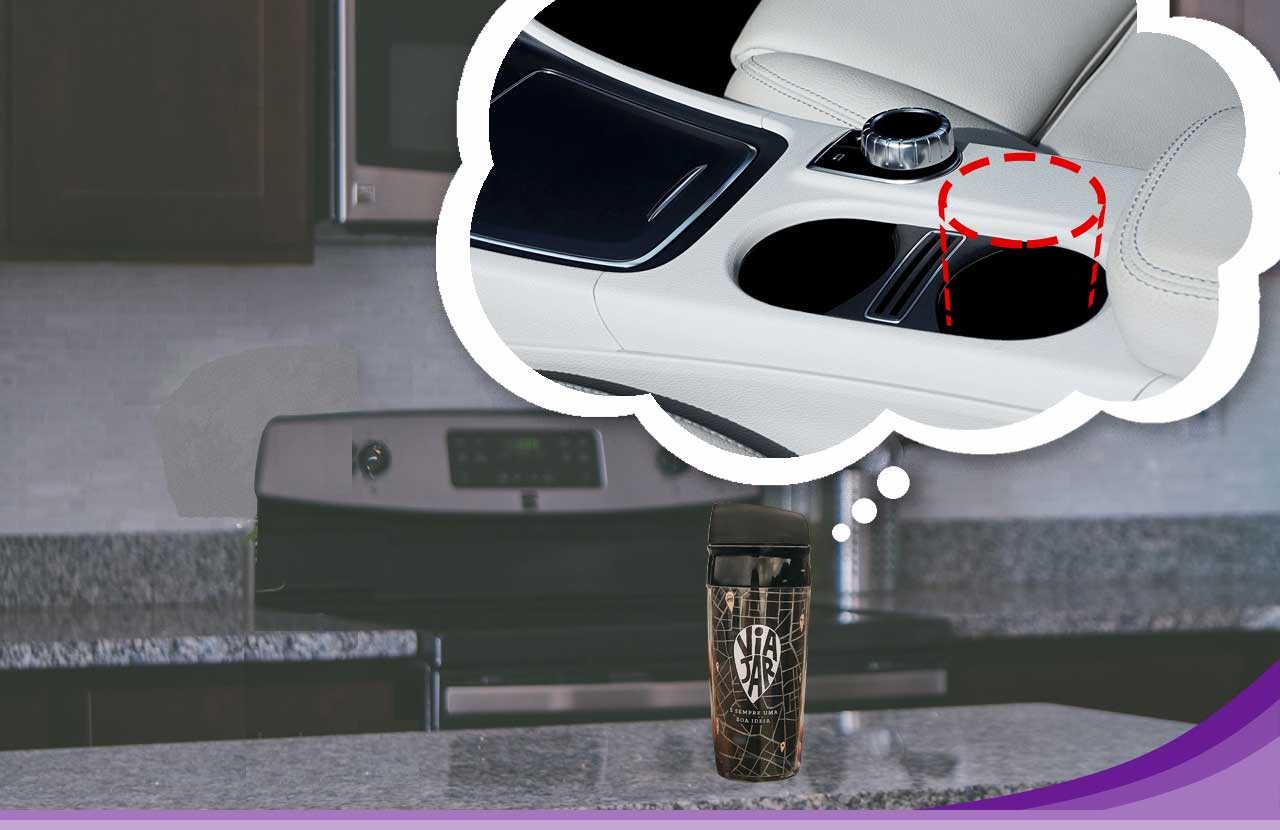
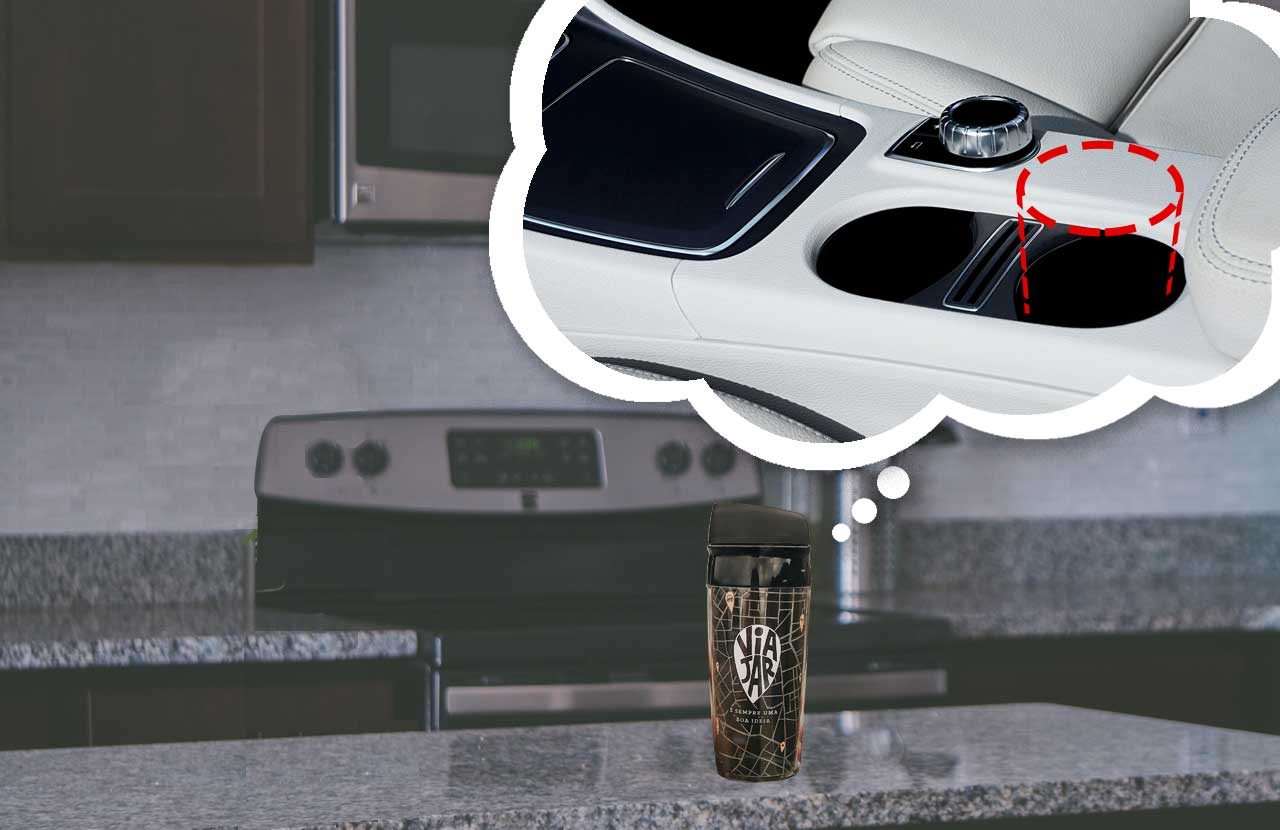
Swapped out hero creative to cup campaign from mask

Changed region(s): [[0.3125, 0.0, 1.0, 0.6024], [0.0, 0.7831, 1.0, 1.0], [0.2188, 0.512, 0.2812, 0.5723]]

diff --git a/src/site/index.md b/src/site/index.md
@@ -3,10 +3,9 @@ title: atendit
 subtitle: A Bluetooth and iOS App powered event driven conditional reminder, notification, and alert system.
 himgpath: ../../images/hero-images/
 layout: layouts/home.njk
-head: Have your mask?
-subhead: We'll make sure you never leave home without it.
-himgfilename: hero-image-mask.jpg
-checkfilename: tweeter.svg
+head: Avoid forgetting your stuff
+subhead: We'll make sure you never leave home without what you need
+himgfilename: hero-desk-cup.jpg
 ctalink: https://www.amazon.com/dp/B089NB883H
 comparisonsign: How is atendit different?
 comparisontext: atendit, unlike any other reminder apps, reminds you as you open the door to leave your home, apartment or office.  Not based on clock time or outside GPS location as other reminders are, atendit reminds you “just in time”.  atendit uses a Sensor, a Bluetooth Low Energy Beacon, that detects movement and briefly transmits that the door has moved triggering the atendit app to immediately issues a Notification containing your reminder information.
